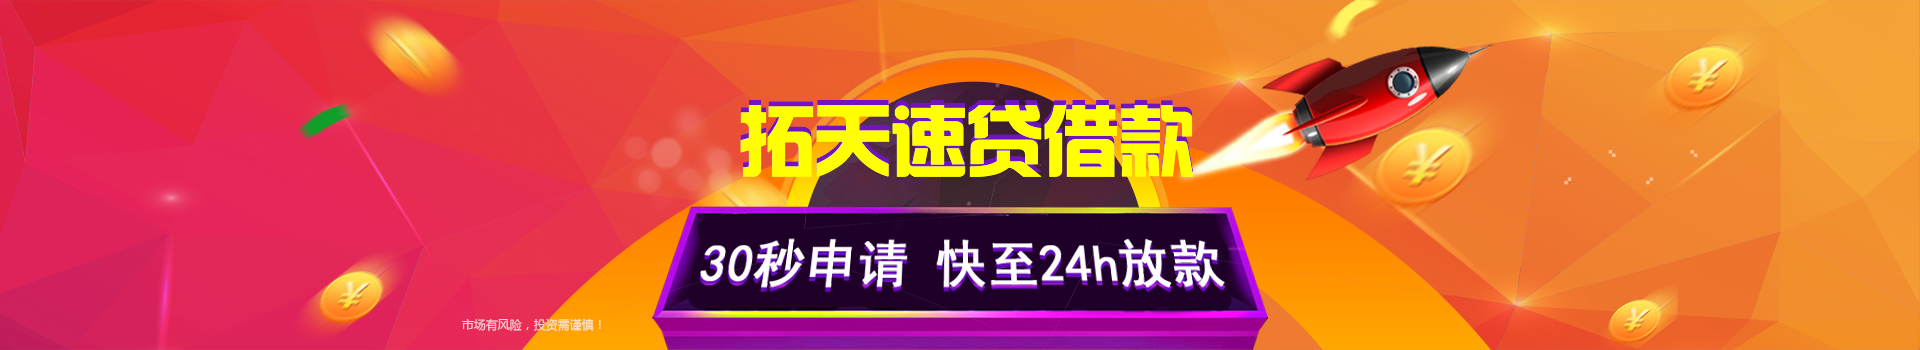
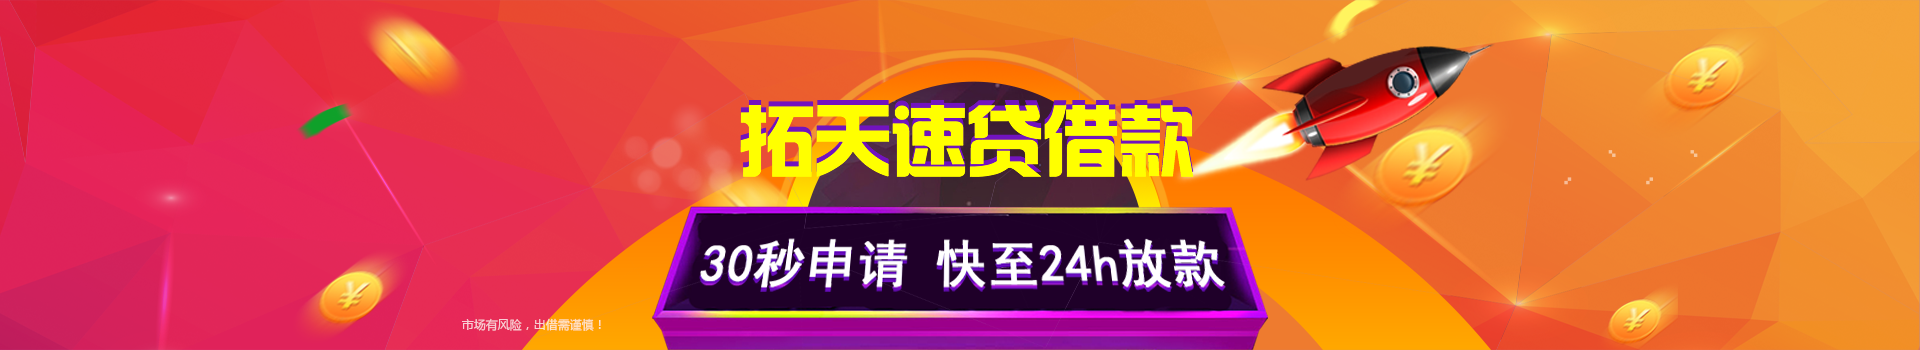
fix

diff --git a/ttsd-frontend-manage/resources/static/m-web/js/investment/loan_detail.jsx b/ttsd-frontend-manage/resources/static/m-web/js/investment/loan_detail.jsx
@@ -810,20 +810,14 @@ let limitMoneyTransfer = $transferDetail.data('estimate-limit')/100;
                     commonFun.CommonLayerTip({
                         btn: ['确定','取消'],
                         area:['280px', '230px'],
-                        content: `<div class="record-tip-box"><b class="pop-title">温馨提示</b> <span>根据监管要求，出借人在出借前需进行投资偏好评估，取消则默认为保守型（可承受风险能力为最低）。是否进行评估？</span></div> `,
+                        content: `<div class="record-tip-box"><b class="pop-title">温馨提示</b> <span>根据监管要求，出借人在出借前需进行出借偏好评估，如果取消将不能参与出借，您是否进行评估？</span></div> `,
                     },function() {
                         layer.closeAll();
                         location.href = '/m/risk-estimate'
 
                     },function () {
-                        commonFun.useAjax({
-                            url: '/risk-estimate',
-                            data: {answers: ['-1']},
-                            type: 'POST'
-                        },function(data) {
-                            layer.closeAll();
-                            $transferForm.submit();
-                        });
+                        layer.closeAll();
+                        return false;
                     })
                     $('.layui-layer-content').css('height','180px')
                     return false;
@@ -967,20 +961,14 @@ function anxinService() {
                         commonFun.CommonLayerTip({
                             btn: ['确定','取消'],
                             area:['280px', '230px'],
-                            content: `<div class="record-tip-box"><b class="pop-title">温馨提示</b> <span>根据监管要求，出借人在出借前需进行投资偏好评估，取消则默认为保守型（可承受风险能力为最低）。是否进行评估？</span></div> `,
+                            content: `<div class="record-tip-box"><b class="pop-title">温馨提示</b> <span>根据监管要求，出借人在出借前需进行出借偏好评估，如果取消将不能参与出借，您是否进行评估？</span></div> `,
                         },function() {
                             layer.closeAll();
                             location.href = '/m/risk-estimate'
 
                         },function () {
-                            commonFun.useAjax({
-                                url: '/risk-estimate',
-                                data: {answers: ['-1']},
-                                type: 'POST'
-                            },function(data) {
-                                layer.closeAll();
-                                noPasswordInvest ? sendSubmitRequest() : $investForm.submit();
-                            });
+                            layer.closeAll();
+                            return false;
                         })
                         $('.layui-layer-content').css('height','180px')
                         return false;
@@ -994,20 +982,14 @@ function anxinService() {
                         commonFun.CommonLayerTip({
                             btn: ['确定','取消'],
                             area:['280px', '230px'],
-                            content: `<div class="record-tip-box"><b class="pop-title">温馨提示</b> <span>根据监管要求，出借人在出借前需进行投资偏好评估，取消则默认为保守型（可承受风险能力为最低）。是否进行评估？</span></div> `,
+                            content: `<div class="record-tip-box"><b class="pop-title">温馨提示</b> <span>根据监管要求，出借人在出借前需进行出借偏好评估，如果取消将不能参与出借，您是否进行评估？</span></div> `,
                         },function() {
                             layer.closeAll();
                             location.href = '/m/risk-estimate'
 
                         },function () {
-                            commonFun.useAjax({
-                                url: '/risk-estimate',
-                                data: {answers: ['-1']},
-                                type: 'POST'
-                            },function(data) {
-                                layer.closeAll();
-                                $('#transferForm').submit();
-                            });
+                            layer.closeAll();
+                            return false;
                         })
                         $('.layui-layer-content').css('height','180px')
                         return false;

diff --git a/ttsd-frontend-manage/resources/static/m-web/js/investment/loan_list.jsx b/ttsd-frontend-manage/resources/static/m-web/js/investment/loan_list.jsx
@@ -24,7 +24,7 @@ function countDownLoan(domElement) {
                     if (countdown <= 0) {
                         //结束倒计时
                         clearInterval(timer);
-                        $this.parents('.target-category-box').find('.preheat-status').removeClass('preheat-btn').text('立即投资').addClass('goToDetail');
+                        $this.parents('.target-category-box').find('.preheat-status').removeClass('preheat-btn').text('立即出借').addClass('goToDetail');
                         $this.remove();
                     }
                     minute=(minute <= 9)?('0' + minute):minute;
@@ -35,7 +35,7 @@ function countDownLoan(domElement) {
                 },1000);
             }else {
 
-                $this.parents('.target-category-box').find('.preheat-status').removeClass('preheat-btn').text('立即投资').addClass('goToDetail');
+                $this.parents('.target-category-box').find('.preheat-status').removeClass('preheat-btn').text('立即出借').addClass('goToDetail');
                 $this.remove();
             }
         }
@@ -185,7 +185,7 @@ $('.notice-tip-btn').on('click',function () {
     commonFun.CommonLayerTip({
         btn: ['我知道了'],
         area:['280px', '320px'],
-        content: `<div class="record-tip-box"><span class="kaola"></span> <b class="pop-title">出借人适当性管理告知</b> <p class="tip-content">参与网络借贷的出借人，应当具备投资风险意识、风险识别能力，拥有非保本类金融产品投资的经历并熟悉互联网。请您在出借前，确保了解融资项目信贷风险，确认具有相应的风险认知和承受能力，并自行承担借贷产生的本息损失。</p></div> `,
+        content: `<div class="record-tip-box"><span class="kaola"></span> <b class="pop-title">出借人适当性管理告知</b> <p class="tip-content">参与网络借贷的出借人，应当具备出借风险意识、风险识别能力，拥有非保本类金融产品出借的经历并熟悉互联网。请您在出借前，确保了解融资项目信贷风险，确认具有相应的风险认知和承受能力，并自行承担借贷产生的本息损失。</p></div> `,
     },function() {
         layer.closeAll();
     })

diff --git a/ttsd-frontend-manage/resources/static/m-web/js/operational.jsx b/ttsd-frontend-manage/resources/static/m-web/js/operational.jsx
@@ -360,7 +360,7 @@ let getPartThreePage = (data) => {
     let ageLoanLegendArr = [];
     let maleScale = data.maleScale;//投资人男性
     let femaleScale = data.femaleScale;//投资人女性
-    let loanerMaleScale = data.loanerMaleScale;//借款人男性
+    let loanerMaleScale = data.loanerMaleScale.toFixed(1);//借款人男性
     let loanerFemaleScale = data.loanerFemaleScale;//借款人女性
     let ageDistribution = data.ageDistribution;
     var loanerAgeDistribution = data.loanerAgeDistribution;
